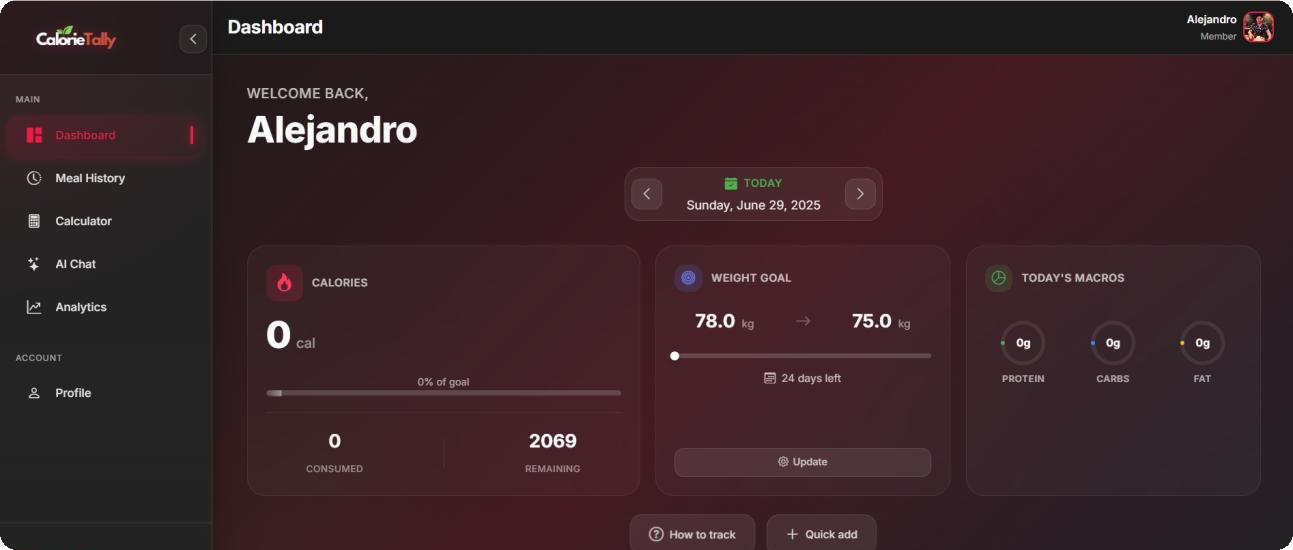
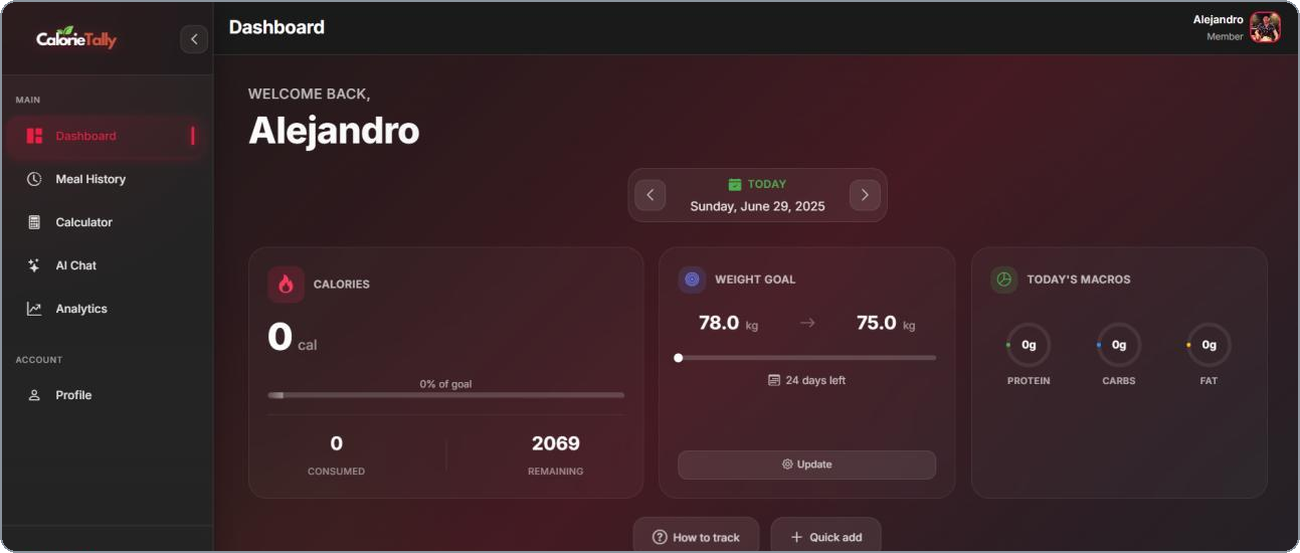
Even out screenshot widths and define their edges
All three screenshots are now 1300px wide and render at equal width, so the column no longer looks ragged. A soft neutral border keeps the near-white Travelforce and OperX shots from bleeding into the page background on the light theme.

Changed region(s): [[0.0, 0.0, 1.0, 1.0]]

diff --git a/README.md b/README.md
@@ -23,27 +23,27 @@ I build and ship production SaaS end to end, from the data model to the deployed
 
 <br><br>
 
-### [CalorieTally](https://calorietally.com)
+## [CalorieTally](https://calorietally.com)
 
 Log a meal by typing it, saying it, or photographing it. The AI handles the nutrition.
 
-<img src="assets/calorietally.png" alt="CalorieTally dashboard" />
+<img src="assets/calorietally.png" width="100%" alt="CalorieTally dashboard" />
 
 <br>
 
-### [Travelforce](https://travelforce.app)
+## [Travelforce](https://travelforce.app)
 
 Trip planning, itineraries and quotes for travel agencies, with AI drafting the first version of each.
 
-<img src="assets/travelforce.png" alt="Travelforce dashboard" />
+<img src="assets/travelforce.png" width="100%" alt="Travelforce dashboard" />
 
 <br>
 
-### [OperX](https://operx.pro)
+## [OperX](https://operx.pro)
 
 Work orders for maintenance crews, built to keep working where there is no signal.
 
-<img src="assets/operx.png" alt="OperX dashboard" />
+<img src="assets/operx.png" width="100%" alt="OperX dashboard" />
 
 <br>
 
